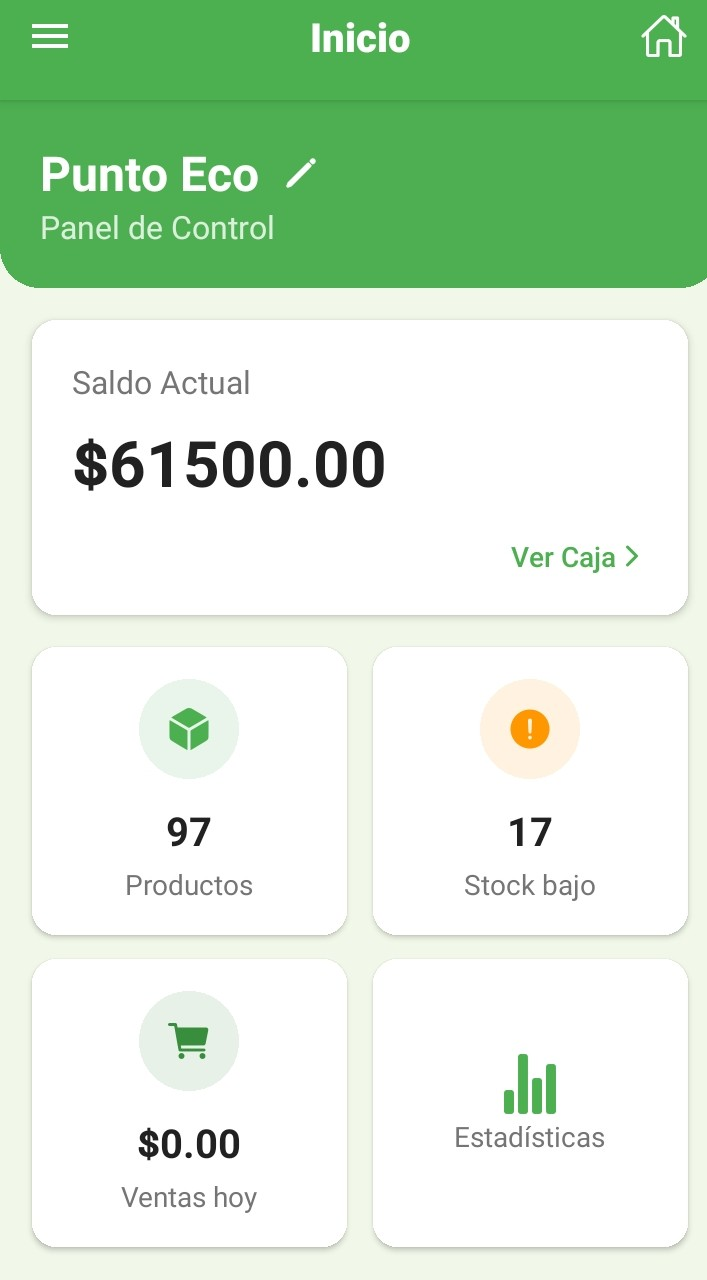
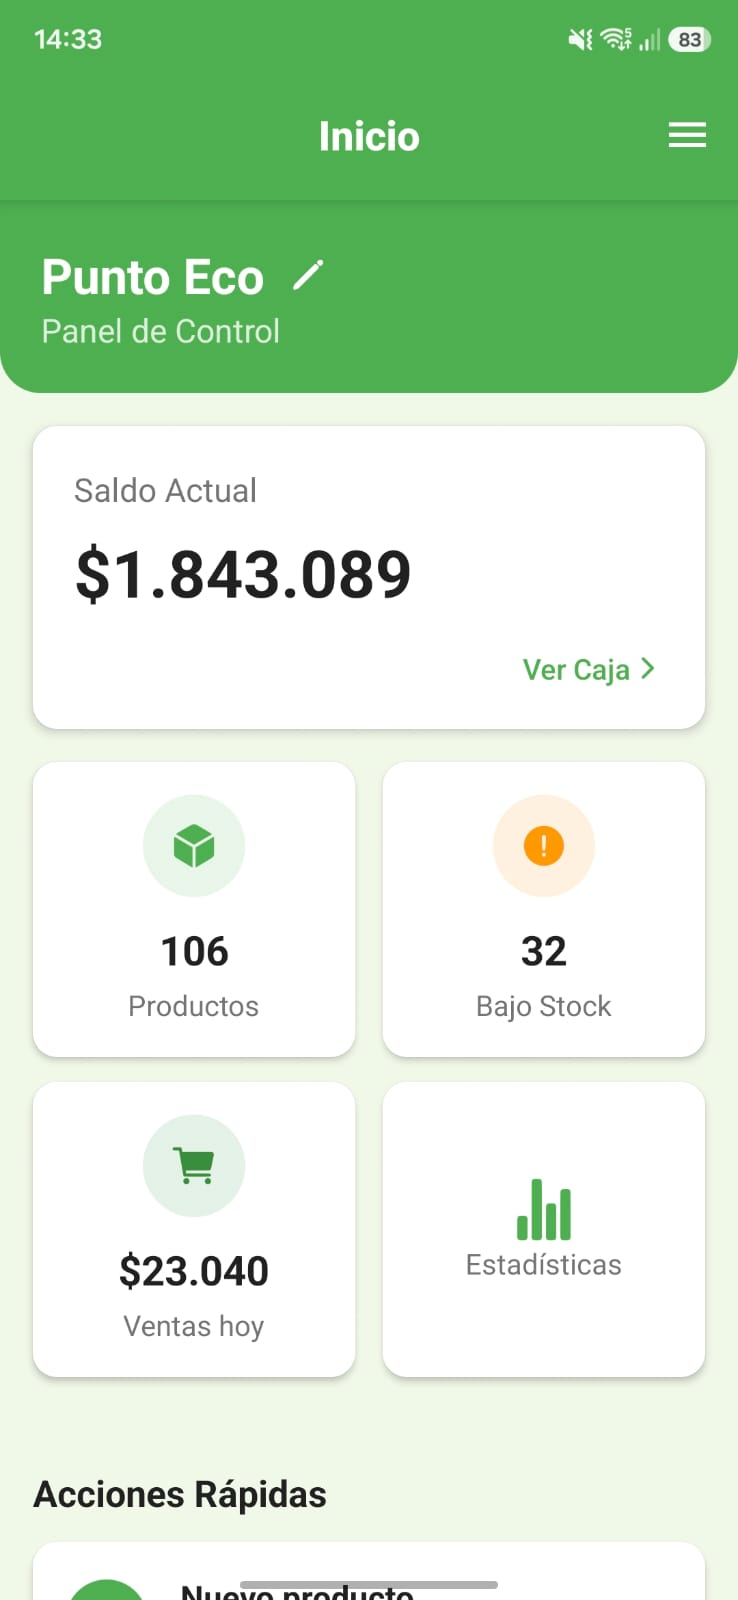
Actualización imágenes de proyectos

diff --git a/src/pages/Projects.js b/src/pages/Projects.js
@@ -66,20 +66,17 @@ const Projects = () => {
     },
     {
       title: 'Servicold App',
-      description: 'App para la empresa Servicold SAS — gestión de usuarios y sensores IoT en tiempo real, compatible con iOS y Android.',
+      description: 'App móvil para monitoreo remoto de sensores IoT de temperatura y combustible. Permite visualizar datos en tiempo real, consultar históricos con gráficos, descargar reportes en Excel, recibir alertas push ante valores críticos y gestionar el acceso mediante un modelo de suscripciones.',
       images: [
-        '/images/projects/servicold-app/servicold_app1.jpg',
-        '/images/projects/servicold-app/servicold_app2.jpg',
-        '/images/projects/servicold-app/servicold_app3.jpg',
-        '/images/projects/servicold-app/servicold_app4.jpg',
-        '/images/projects/servicold-app/servicold_app5.jpg',
-        '/images/projects/servicold-app/servicold-app7.jpg',
-        '/images/projects/servicold-app/IMG_0006.PNG',
-        '/images/projects/servicold-app/IMG_0007.PNG',
-        '/images/projects/servicold-app/IMG_0008.PNG',
-        '/images/projects/servicold-app/IMG_0009.PNG',
+        '/images/projects/servicold-app/servicold_app1.jpeg',
+        '/images/projects/servicold-app/servicold_app2.jpeg',
+        '/images/projects/servicold-app/servicold_app3.jpeg',
+        '/images/projects/servicold-app/servicold_app4.jpeg',
+        '/images/projects/servicold-app/servicold_app5.jpeg',
+        '/images/projects/servicold-app/servicold_app6.jpeg',
+        '/images/projects/servicold-app/servicold_app7.jpeg'
       ],
-      technologies: ['React Native', 'Expo', 'Firebase', 'TypeScript'],
+      technologies: ['React Native', 'Expo', 'TypeScript', 'PHP', 'MySQL', 'Arduino'],
       github: 'https://github.com/IgnacioIbaigorria/servicold-app',
       stores: {
         android: 'https://play.google.com/store/apps/details?id=com.ignacioivan00.servicoldApp&hl=es_419',
@@ -89,12 +86,15 @@ const Projects = () => {
       isLive: true,
       metrics: [
         'Publicada en Google Play y App Store.',
-        'Aumento del 25% en ventas de sensores.',
+        'Monitoreo en tiempo real de sensores IoT vía Arduino + WiFi.',
+        'Alertas push, gráficos históricos y exportación a Excel.',
+        'Modelo de suscripciones por niveles de acceso.',
+        'Aumento del 25% en ventas de sensores para el cliente.',
       ]
     },
     {
       title: 'Servicold Web',
-      description: 'Sitio web corporativo y sistema de gestión de sensores para Servicold SAS. Landing page + dashboard de administración.',
+      description: 'Plataforma web de monitoreo de sensores IoT y sitio corporativo para Servicold SAS. Dashboard con gráficos en tiempo real, descarga de históricos en Excel y gestión de sensores y usuarios, complementado con una landing page corporativa.',
       images: [
         '/images/projects/servicold-web/servicold-web1.jpg',
         '/images/projects/servicold-web/servicold-web2.jpg',
@@ -104,12 +104,14 @@ const Projects = () => {
         '/images/projects/servicold-web/servicold-web6.jpg',
         '/images/projects/servicold-web/servicold-web7.jpg',
       ],
-      technologies: ['JavaScript', 'Bootstrap', 'PHP', 'phpMyAdmin'],
+      technologies: ['JavaScript', 'Bootstrap', 'PHP', 'MySQL', 'Hostinger'],
       github: 'https://github.com/IgnacioIbaigorria/ServiCold',
       live: 'https://servicoldingenieria.com',
       categories: ['Web'],
       isLive: true,
       metrics: [
+        'Dashboard compartido con la app móvil (misma API PHP).',
+        'Exportación de datos históricos a Excel por rango de fechas.',
         'Aumento del 25% en ventas de sensores.',
       ]
     },
@@ -246,7 +248,7 @@ const Projects = () => {
     };
     window.addEventListener('keydown', handleKey);
     return () => window.removeEventListener('keydown', handleKey);
-  // eslint-disable-next-line react-hooks/exhaustive-deps
+    // eslint-disable-next-line react-hooks/exhaustive-deps
   }, [modalImages, currentModalImage]);
 
   const featuredProject = filtered.find(p => p.featured);

diff --git a/src/utils/techData.js b/src/utils/techData.js
@@ -2,7 +2,7 @@ import {
   SiReact, SiNextdotjs, SiJavascript, SiTypescript, SiHtml5, SiCss3, SiTailwindcss,
   SiNodedotjs, SiExpress, SiSpringboot, SiPhp, SiPython, SiDjango, SiLaravel,
   SiPostgresql, SiMysql, SiMongodb, SiFirebase, SiSupabase, SiFlutter, SiExpo,
-  SiGit, SiDocker, SiAmazonwebservices as SiAmazonaws, SiGitlab, SiGithub, SiFigma, SiBootstrap, SiPhpmyadmin, SiSqlite, SiChartdotjs, SiI18Next, SiShadcnui, SiPrisma, SiGo, SiGin
+  SiGit, SiDocker, SiAmazonwebservices as SiAmazonaws, SiGitlab, SiGithub, SiFigma, SiBootstrap, SiPhpmyadmin, SiSqlite, SiChartdotjs, SiI18Next, SiShadcnui, SiPrisma, SiGo, SiGin, SiArduino
 } from 'react-icons/si';
 
 export const techInfoMap = {
@@ -45,6 +45,8 @@ export const techInfoMap = {
   'css3': { icon: <SiCss3 />, color: "#1572B6" },
   'go': { icon: <SiGo />, color: "#4DD0E1" },
   'gin': { icon: <SiGin />, color: "#4DD0E1" },
+  'arduino': { icon: <SiArduino />, color: "#00878A" },
+  'hostinger': { icon: null, color: "#7B2D8B" },
 };
 
 export const getTechInfo = (techName) => {
